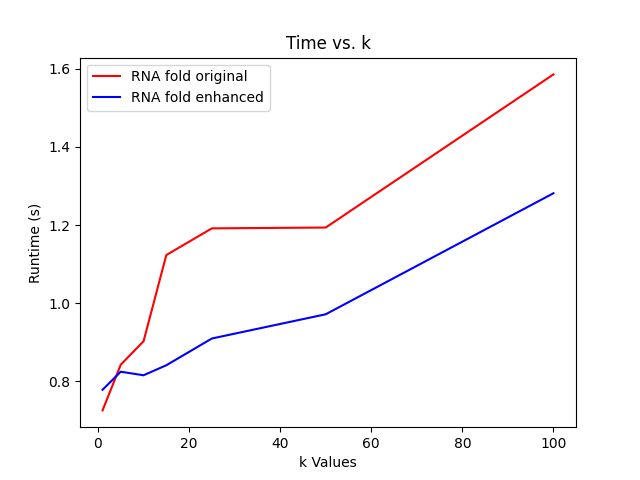
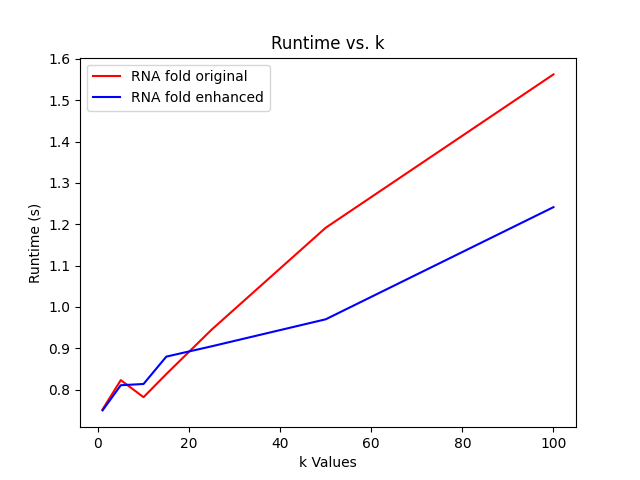
graph title change - AG

diff --git a/main.py b/main.py
@@ -200,4 +200,4 @@ ys = []
 for data_set in data:
     xs.append(list(data_set[1].keys()))
     ys.append((data_set[0], list(data_set[1].values())))
-plot(xs, ys, "k Values", "Runtime (s)", "Time vs. k", True)
+plot(xs, ys, "k Values", "Runtime (s)", "Runtime vs. k", True)
